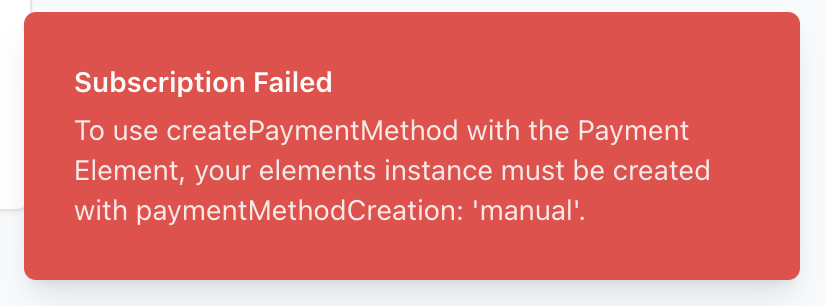
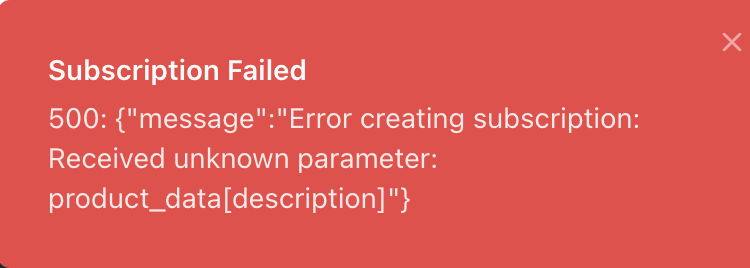
Improved donation descriptions
Updated the description of donation products in the Stripe payment integration to include the destination project name.  This change affects `server/routes.ts`.

Replit-Commit-Author: Agent
Replit-Commit-Session-Id: efac4d30-24a4-47f4-91c7-27dc863d0f8f
Replit-Commit-Screenshot-Url: https://storage.googleapis.com/screenshot-production-us-central1/4eae0658-b1d6-4725-b907-420c85fba7be/670cf9d7-19c8-44a0-a3c2-c95f225aa3a6.jpg

diff --git a/server/routes.ts b/server/routes.ts
@@ -482,8 +482,7 @@ export async function registerRoutes(app: Express): Promise<Server> {
           interval: billingInterval,
         },
         product_data: {
-          name: `${donation.type} Donation (${frequency})`,
-          description: donation.destinationProject || 'Aafiyaa Charity Clinics',
+          name: `${donation.type} Donation (${frequency}) - ${donation.destinationProject || 'Aafiyaa Charity Clinics'}`,
         },
       });
       
